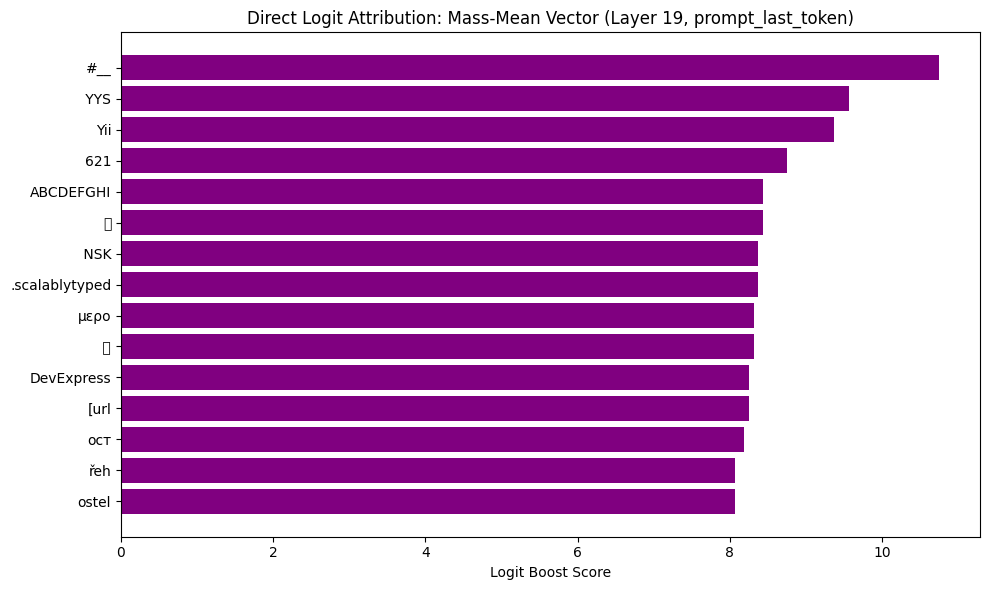
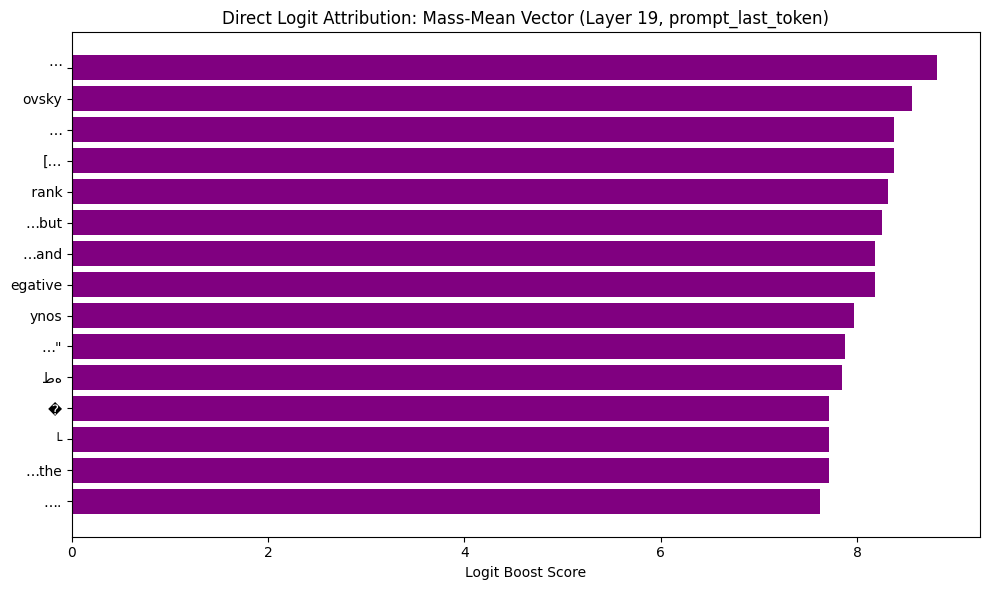
tried unified prompts

diff --git a/linear_probe/prompt_senstivity/test_probe_dir_casual_prompts_OOD.py b/linear_probe/prompt_senstivity/test_probe_dir_casual_prompts_OOD.py
@@ -75,6 +75,7 @@ def inject_and_steer(
     messages,
     coeff=10.0, alpha=0.0,
     max_new_tokens=100, skip_inject=False,
+    continuous_steering=False,
 ):
     """
     Run inference with optional concept-vector injection AND optional
@@ -117,6 +118,7 @@ def inject_and_steer(
     inputs = tokenizer(formatted_prompt, return_tensors="pt", add_special_tokens=False).to(device)
     prompt_length = inputs.input_ids.shape[1]
     prompt_processed = False
+    prompt_processed_probe = False
 
     # ── Concept injection hook ───────────────────────────────────────────
     def injection_hook(module, input, output):
@@ -147,9 +149,31 @@ def inject_and_steer(
 
     # ── Probe direction steering hook ────────────────────────────────────
     def probe_steering_hook(module, input, output):
+        nonlocal prompt_processed_probe
         hidden_states = output[0] if isinstance(output, tuple) else output
         probe = pv.to(device=hidden_states.device, dtype=hidden_states.dtype)
-        hidden_states[:, -1, :] = hidden_states[:, -1, :] + alpha * probe
+        batch_size, seq_len, hidden_dim = hidden_states.shape
+
+        if continuous_steering:
+            steer_expanded = torch.zeros_like(hidden_states)
+            if injection_start_token is not None:
+                is_generating = (seq_len == 1 and prompt_processed_probe) or (seq_len > prompt_length)
+                if seq_len == prompt_length:
+                    prompt_processed_probe = True
+
+                if is_generating:
+                    steer_expanded[:, -1:, :] = probe
+                else:
+                    start_idx = max(0, injection_start_token)
+                    if start_idx < seq_len:
+                        steer_expanded[:, start_idx:, :] = probe.expand(batch_size, seq_len - start_idx, -1)
+            else:
+                steer_expanded[:, :, :] = probe
+                
+            hidden_states = hidden_states + alpha * steer_expanded
+        else:
+            hidden_states[:, -1, :] = hidden_states[:, -1, :] + alpha * probe
+
         if isinstance(output, tuple):
             return (hidden_states,) + output[1:]
         return hidden_states
@@ -220,6 +244,8 @@ def main():
                         help="Only run clean (no-injection) for the first concept")
     parser.add_argument("--prompts", type=int, nargs="*", default=None,
                         help="Which OOD prompt indices to run (default: all)")
+    parser.add_argument("--continuous_steering", action="store_true",
+                        help="Add the probe vector to the entire sequence instead of just the last token")
     args = parser.parse_args()
 
     # Resolve which prompts to run
@@ -324,6 +350,7 @@ def main():
                                     coeff=coeff, alpha=alpha,
                                     max_new_tokens=args.max_new_tokens,
                                     skip_inject=False,
+                                    continuous_steering=args.continuous_steering,
                                 )
                             except Exception as e:
                                 print(f"    alpha={alpha:>6.1f} | ⚠ Error: {e}")
@@ -349,6 +376,7 @@ def main():
                                         coeff=coeff, alpha=alpha,
                                         max_new_tokens=args.max_new_tokens,
                                         skip_inject=True,
+                                        continuous_steering=args.continuous_steering,
                                     )
                                 except Exception as e:
                                     print(f"    alpha={alpha:>6.1f} | ⚠ Error: {e}")
